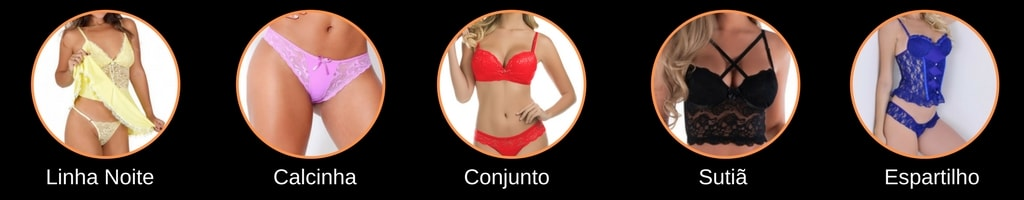
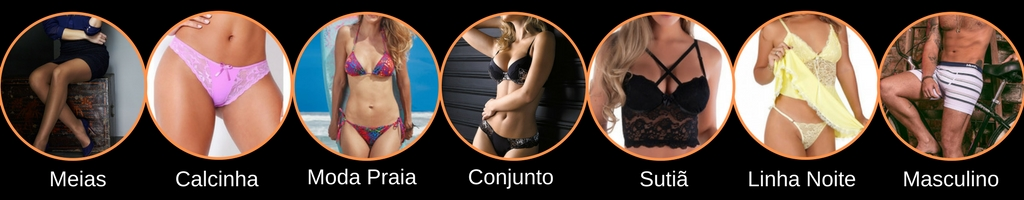
landing page

diff --git a/htm/EstiloProdutoOut.htm b/htm/EstiloProdutoOut.htm
@@ -1,6 +1,6 @@
 <p255>
 <div class="DivHomeProd" onclick="NoCascate('<URLProd>');">
-  <div class="DivHomeImagemProd"><ImagemProd></div>
+  <div class="DivHomeImagemProd"><img alt="<NomeProd>" title="<NomeProd>" class="LazyLoadFC EstImgFC" onerror="MostraImgOnError(this,0)" style="opacity: 1;" src="https://www.rumo.com.br/lojas/000<IDLojaNum>/images/landingpage/<CodProd>-min.jpg" border="0"></div>
   <div class="DivIntHomeProd"> 
     <div class="DivHomeNomeProd">
       <span class="HomeNomeProd text-overflow font-16"><NomeProd></span>
@@ -9,7 +9,7 @@
       <div id="idProdPrice<IDProduto>"><script>sF$.fnShowPrice(<PrecoNum>,<PrecoOri>,'<CodProd>',<MaxParcelasProdNum>,<IDProduto>);</script></div> 
       <div class="PriceAVistaLista"><script>sF$.fnShowParcels(<PrecoNum>,<MaxParcelasProdNum>);</script><br><script>sF$.fnMostraDescontoHome(<PrecoNum>);</script></div>
     </div>
-    <div class="DivHomeSpy hide-small"><a href="#Spy" onclick='bCascate=true;FCLib$.OpenRWD("/listaprodutos.asp?idloja=<IDLoja>&sty=9&int=1&idproduto=<IDProduto>","Disp","width=700,height=700")'>Espiar</a></div>
+    <div class="ProdCompraHome"><FormProd><LinkComprar></FormProd></div>
     <div class="DivHomeDetails"><a href="<URLProd>">Detalhes</a></div>
   </div>
 </div>
@@ -24,3 +24,7 @@
   <div class="DivHomeImagemProdDest"><a href="<URLProd>"><ImagemDet></a></div>
 </div>
 </p200>
+
+
+
+

diff --git a/htm/Meli1.htm b/htm/Meli1.htm
@@ -44,7 +44,13 @@
         <br>
 
         <div style="text-align:center;">
-          <img width="350px" height="350px" src="https://www.rumo.com.br/lojas/00033555/prod/LPN4_350.JPG" alt="Produto">
+
+          <img width="350px" height="350px" src="https://www.lingerieplace.com.br/lojas/00033555/prod/LPA6_350.JPG" alt="Produto">
+
+          <img width="350px" height="350px" src="https://www.lingerieplace.com.br/lojas/00033555/prod/LPA6_350T.jpg" alt="Produto">
+
+          <img width="350px" height="350px" src="https://www.lingerieplace.com.br/lojas/00033555/prod/VIRTeSOP_350.jpg" alt="Produto">
+
         </div>
 
         <br><br>
